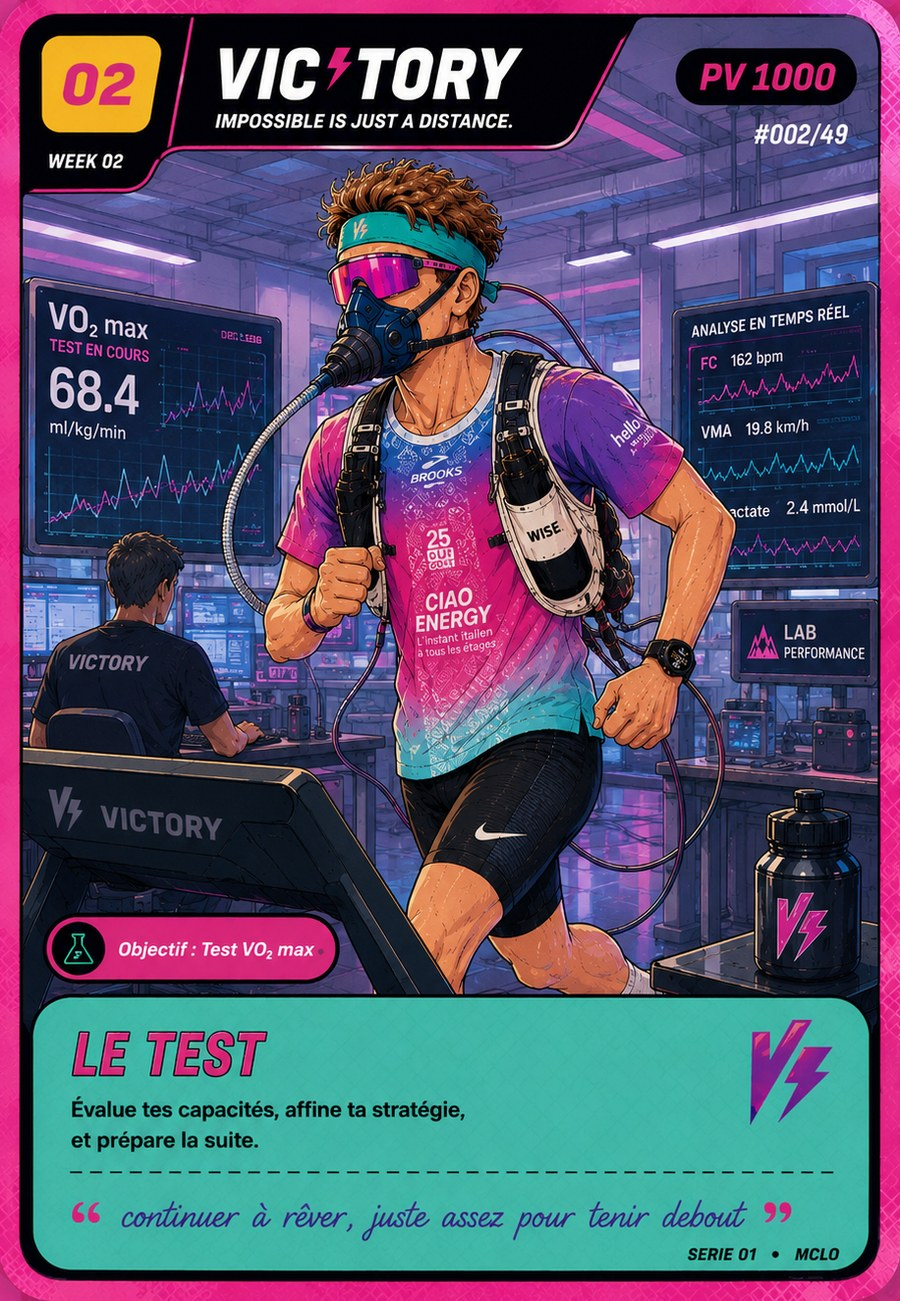
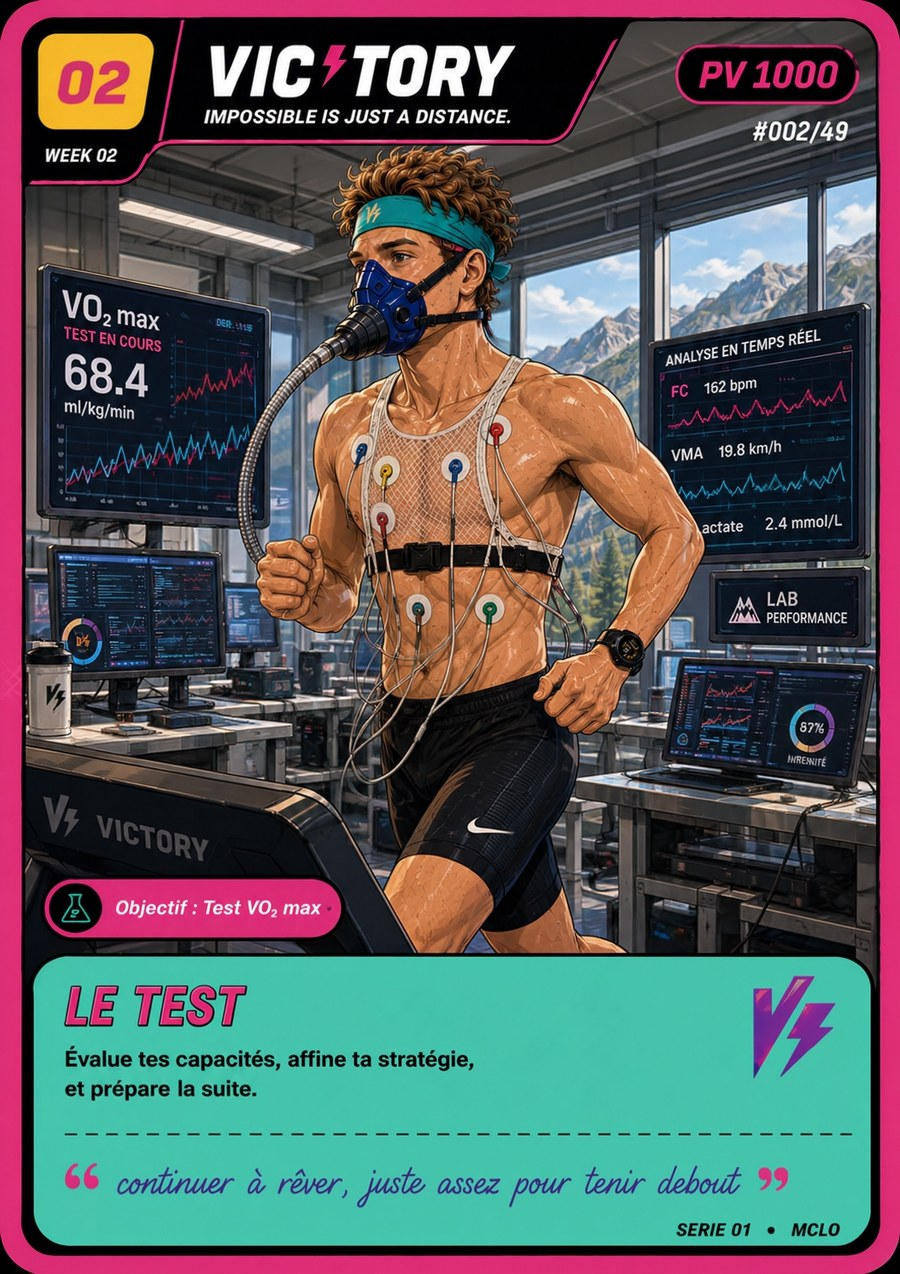
Bestiaire : nouvelle image de la carte 2 « Le Test »
Claude-Session: https://claude.ai/code/session_014wqtScQX5BUcpNHHcZkpoU

diff --git a/trail/sw.js b/trail/sw.js
@@ -1,5 +1,5 @@
 /* Victor Trail : fonctionne hors ligne (réseau d'abord, toujours revalidé, cache en secours) */
-const V='vt-os-17';
+const V='vt-os-18';
 const CORE=['./','index.html','anim.js','manifest.webmanifest','icons/icon-192.png','icons/apple-touch-icon.png','icons/icon-512.png','tcg.js','cartes/cards.json','parcours.js','parcours.enc.json'];
 self.addEventListener('install',e=>{e.waitUntil(caches.open(V).then(c=>Promise.all(CORE.map(u=>c.add(u).catch(()=>{})))).then(()=>self.skipWaiting()))});
 self.addEventListener('activate',e=>{e.waitUntil(caches.keys().then(k=>Promise.all(k.filter(x=>x!==V&&x!=='vt-tiles').map(x=>caches.delete(x)))).then(()=>self.clients.claim()))});
